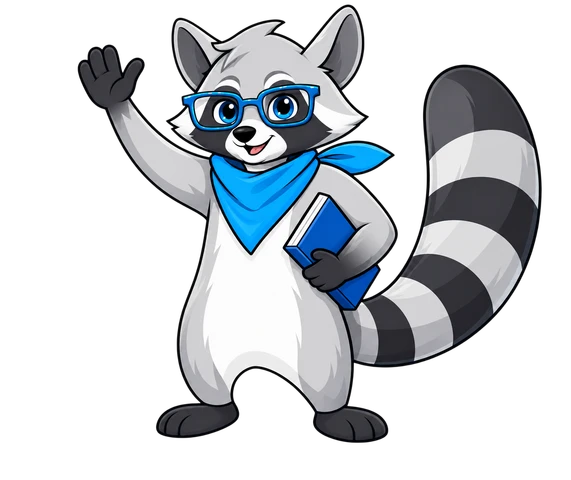
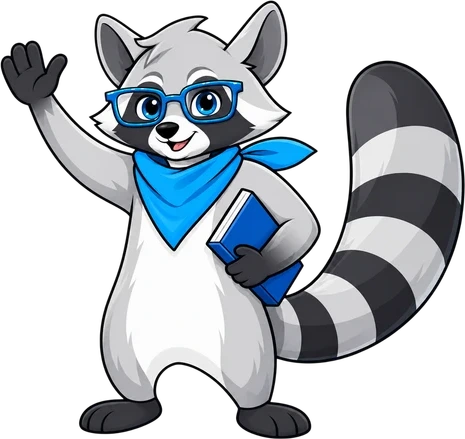
Главная резидента: фон шапки как у карточек, крупнее и обрезан по лапам маскот, кнопка "Мой договор" перенесена из шапки в карточку комнаты

diff --git a/frontend/src/components/ResidentHomeDashboard.vue b/frontend/src/components/ResidentHomeDashboard.vue
@@ -1,7 +1,7 @@
 <script setup lang="ts">
 import { computed, onMounted, ref } from 'vue'
 import { useI18n } from 'vue-i18n'
-import { ArrowRight, CreditCard, DoorOpen, FileText, MessageCircle, Phone, Wallet } from 'lucide-vue-next'
+import { ArrowRight, CreditCard, DoorOpen, MessageCircle, Phone, Wallet } from 'lucide-vue-next'
 import { Card } from '@/components/ui/card'
 import { Button, buttonVariants } from '@/components/ui/button'
 import CreatePaymentDialog from '@/components/CreatePaymentDialog.vue'
@@ -9,7 +9,6 @@ import { fetchMyContract, type MyContractDetail } from '@/lib/contracts-api'
 import { residentUnreadCount } from '@/lib/chat-unread-state'
 import { currentUser } from '@/lib/auth-state'
 import { dateLocaleTag } from '@/lib/format-locale'
-import { cn } from '@/lib/utils'
 // Маскот — сгенерирован пользователем отдельно под референс (2026-08-28, вторая версия —
 // первая была фото енота без позы "как на референсе"), пережат через sharp (456×365,
 // ~22 КБ, альфа-канал сохранён) тем же приёмом, что и первая версия.
@@ -67,9 +66,10 @@ function telHref(phone: string): string {
 <template>
   <div class="flex flex-1 flex-col gap-4 p-4 md:p-6">
     <!-- Шапка сделана буквально по присланному пользователем референсу (2026-08-28):
-         приветствие по имени + текст + две кнопки слева, маскот с "репликой" справа,
-         фон карточки — светло-голубой (как в референсе, не нейтральный bg-card). -->
-    <Card class="relative flex flex-col items-start gap-6 overflow-hidden bg-sky-50 p-6 dark:bg-sky-500/10 sm:flex-row sm:items-center sm:gap-8">
+         приветствие по имени + текст + кнопка слева, маскот с "репликой" справа.
+         Фон — по прямой просьбе 2026-08-29 приведён к тому же bg-card, что у остальных
+         карточек ниже (раньше был отдельный светло-голубой оттенок). -->
+    <Card class="relative flex flex-col items-start gap-6 overflow-hidden p-6 sm:flex-row sm:items-center sm:gap-8">
       <!-- "Облачка" — девятый заход 2026-08-28, по прямой просьбе отказались от попытки
            воспроизвести точный силуэт — просто россыпь кружков разного размера по всей
            шапке (не только в углу), тот же самый мягкий цвет (bg-sky-100/dark:bg-sky-400/15),
@@ -109,46 +109,15 @@ function telHref(phone: string): string {
         </h1>
         <p class="mt-3 text-base text-muted-foreground">{{ t('home.resident.greetingBody1') }}</p>
         <p class="mt-3 text-base text-muted-foreground">{{ t('home.resident.greetingBody2') }}</p>
-        <!-- flex + flex-1 на каждой кнопке (не grid) — оба flex-item растут/сжимаются
-             СТРОГО одинаково (flex: 1 1 0%) независимо от длины текста — по прямой просьбе
-             2026-08-28, четвёртый заход на этот конкретный баг. ВАЖНО: одного flex-1 мало —
-             базовые классы кнопки несут whitespace-nowrap (нужен, чтобы текст не переносился
-             сам по себе на других кнопках сайта), а у flex-item ПО УМОЛЧАНИЮ min-width:auto,
-             который у nowrap-контента равен ширине его "однострочного" текста — это ЖЁСТКИЙ
-             пол, который flex-basis:0 (из flex-1) не может пробить: до этой правки более
-             длинный текст "Оплатить проживание" просто не мог сжаться уже своих 200px, и вся
-             дистрибуция пространства съезжала (проверено — 200/140px, не поровну, несмотря
-             на одинаковый flex-1 у обеих). min-w-0 снимает эту неявную нижнюю границу —
-             теперь flex-grow действительно делит место 50/50. justify-center (уже в
-             buttonVariants) центрирует текст внутри итоговой ширины. -->
-        <div class="mt-4 flex flex-col gap-3 sm:flex-row">
-          <Button class="min-w-0 flex-1" @click="paymentDialog?.open()">
+        <!-- Кнопка "Мой договор" убрана из шапки по прямой просьбе 2026-08-29 — тот же
+             переход теперь доступен через заголовок карточки "Моя комната" ниже
+             (переименована в "Мой договор", см. roomHeading). Осталась одна кнопка,
+             flex-1/min-w-0 больше не нужны — делить пространство больше не с кем. -->
+        <div class="mt-4">
+          <Button @click="paymentDialog?.open()">
             <CreditCard class="size-4" />
             {{ t('home.resident.payHero') }}
           </Button>
-          <!-- ВАЖНО: не Button as-child + RouterLink — Button.vue оборачивает свой slot в
-               <span class="contents">, и при as-child именно ЭТОТ span (не RouterLink)
-               получает merged-классы кнопки (см. reka-ui Primitive/Slot.ts#mergeProps) —
-               RouterLink остаётся без layout-классов вообще, из-за чего иконка (block по
-               Tailwind preflight для svg) и текст переносятся на разные строки внутри
-               него. Обходим — RouterLink напрямую с теми же классами buttonVariants, без
-               Button/as-child посредника вообще. Сам цвет (outline) не трогаем по прямой
-               просьбе — только иконка перекрашена в primary.
-               border-0 + inset-shadow вместо border — по прямой просьбе 2026-08-28,
-               проверено скриншотом DevTools: у outline-варианта border (1px со всех
-               сторон) при одинаковой ВНЕШНЕЙ высоте (40px, box-sizing: border-box) съедает
-               2px из CONTENT-BOX (22px против 24px у безрамочной "Оплатить проживание") —
-               внешне незаметно (контент центрирован по items-center в обоих случаях), но
-               раз попросили "одинаково" буквально — заменили border на inset box-shadow
-               той же толщины/цвета (var(--input), тот же токен, что у border-input), он не
-               участвует в box-model вообще, content-box становится 24px у обеих кнопок. -->
-          <RouterLink
-            to="/student/contract"
-            :class="cn(buttonVariants({ variant: 'outline' }), 'min-w-0 flex-1 border-0 shadow-[inset_0_0_0_1px_var(--input)]')"
-          >
-            <FileText class="size-4 text-primary" />
-            {{ t('home.resident.myContractButton') }}
-          </RouterLink>
         </div>
       </div>
 
@@ -157,16 +126,22 @@ function telHref(phone: string): string {
            просто шёл сразу за текстом через gap-8, оставляя пустоту СПРАВА от него до края
            карточки, а не наоборот. ml-auto съедает именно эту пустоту, подтягивая маскот к
            краю; gap-8 остаётся минимальным отступом от текста, когда свободного места нет. -->
-      <div class="relative z-10 flex shrink-0 items-center gap-3 sm:ml-auto">
+      <!-- gap-1 (было gap-3) — по прямой просьбе 2026-08-29 маскот подвинут ближе к
+           пузырю с текстом. mascot.webp сам обрезан по прозрачным краям (был запас
+           ~37px пустоты под лапами, см. комментарий у mascotSrc) — на бóльшей высоте
+           (h-64/sm:h-96, было h-56/sm:h-80) лапы теперь у самого нижнего края
+           картинки, а не в пустом поле под ними. -->
+      <div class="relative z-10 flex shrink-0 items-center gap-1 sm:ml-auto">
         <!-- "Реплика" маскота — hidden на самом узком экране (места впритык с текстом+
              кнопками уже не остаётся), с sm: и выше показывается как в референсе. Хвостик
              пузыря — повёрнутый на 45° квадрат с двумя видимыми гранями (border-t/border-r),
-             тот же трюк, что для CSS-стрелок без картинок/псевдоэлементов ::after. -->
-        <div class="relative hidden max-w-[220px] rounded-2xl border bg-background px-3 py-2 text-sm shadow-sm sm:block">
+             тот же трюк, что для CSS-стрелок без картинок/псевдоэлементов ::after.
+             text-base (было text-sm) — по прямой просьбе 2026-08-29. -->
+        <div class="relative hidden max-w-[220px] rounded-2xl border bg-background px-3 py-2 text-base shadow-sm sm:block">
           {{ t('home.resident.mascotBubble') }}
           <span class="absolute top-1/2 -right-1.5 size-3 -translate-y-1/2 rotate-45 border-t border-r bg-background" />
         </div>
-        <img :src="mascotSrc" alt="" class="relative h-56 w-auto sm:h-80" />
+        <img :src="mascotSrc" alt="" class="relative h-64 w-auto sm:h-96" />
       </div>
       <CreatePaymentDialog ref="paymentDialog" />
     </Card>
